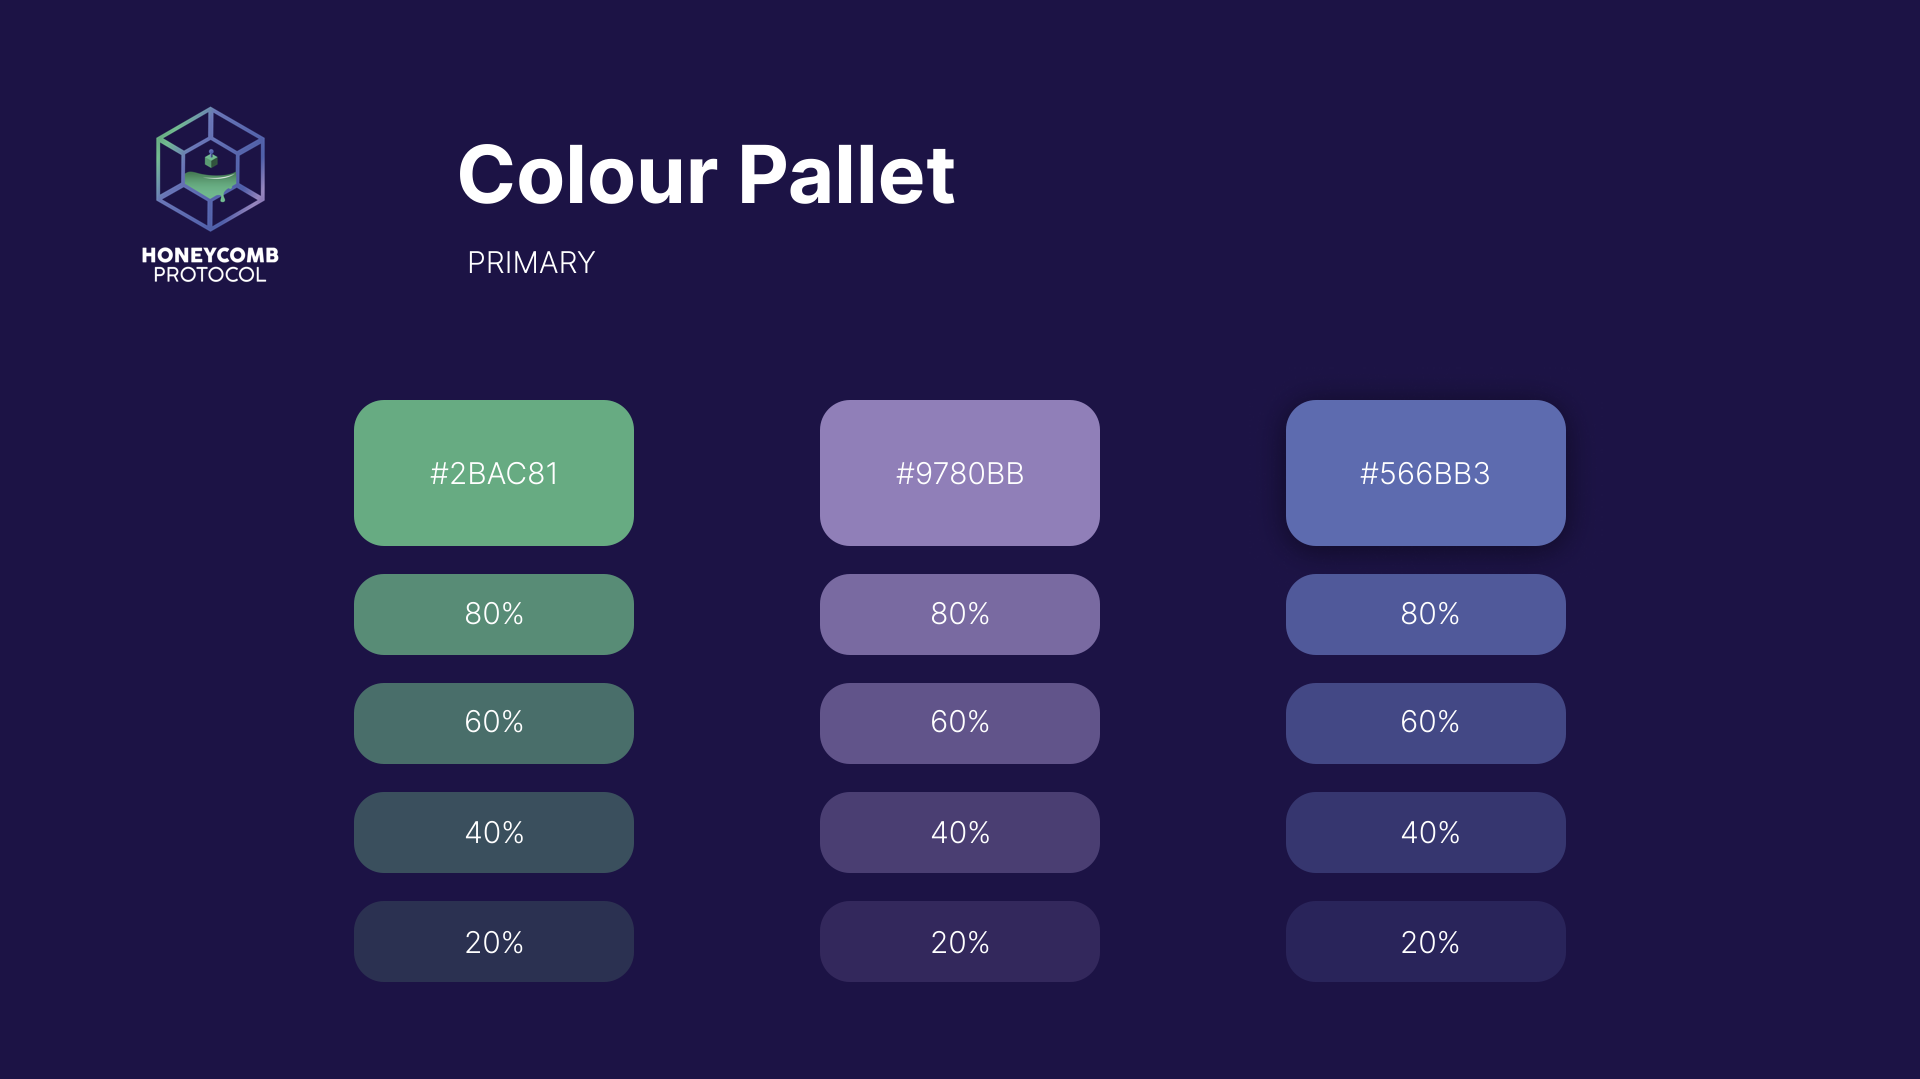
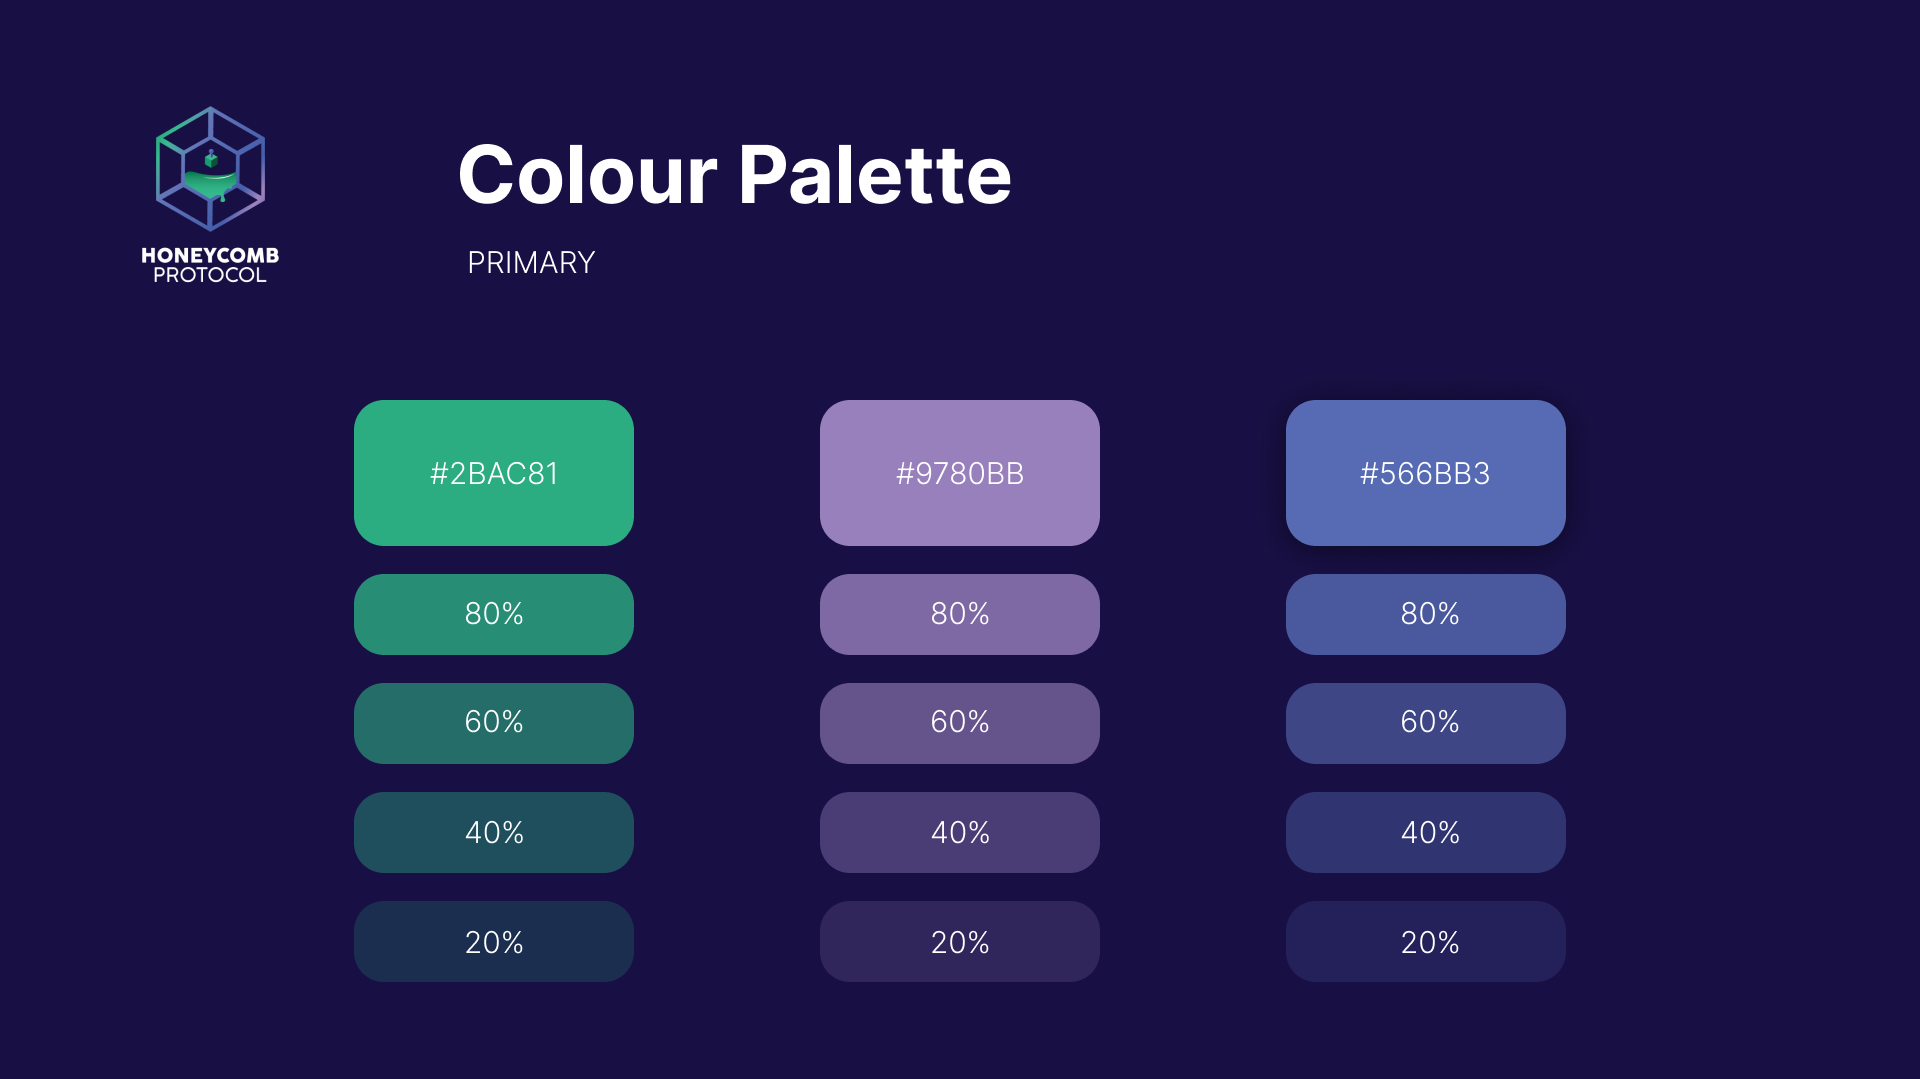
branding-spell

diff --git a/docs/05-Branding.md b/docs/05-Branding.md
@@ -7,7 +7,7 @@ slug: /brand
 ### Version: Jan '24
 ![Main](/main.png)
 
-## Color Pallet
+## Color Palette
 ![Pallet](/pallet.png)
 
 ## Logo Design
